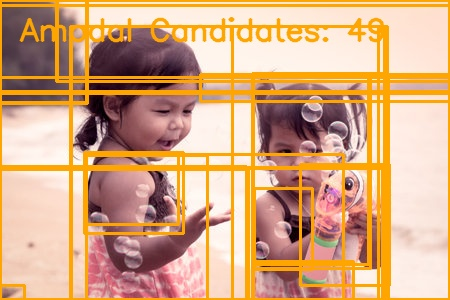
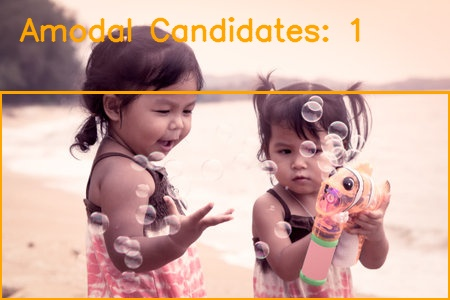
Updated stage 4

Changed region(s): [[0.0, 0.0, 1.0, 1.0], [0.0, 0.93, 0.0622, 1.0]]

diff --git a/test_pipeline.py b/test_pipeline.py
@@ -29,7 +29,8 @@ from transformers import (
     CLIPProcessor,
     CLIPModel,
     AutoModelForCausalLM,
-    AutoTokenizer
+    AutoTokenizer,
+    AutoConfig
 )
 from torchvision.ops import batched_nms
 
@@ -60,8 +61,10 @@ class VisionPipeline24GB:
         # --- Model 3: DINOv2 (Semantic Search) ---
         self.dino_id = "facebook/dinov2-base"
         self.dinov2_processor = AutoImageProcessor.from_pretrained(self.dino_id)
+        config = AutoConfig.from_pretrained(self.dino_id)
+        config.output_attentions = True
         self.dinov2_model = AutoModel.from_pretrained(
-            self.dino_id, torch_dtype=self.dtype
+            self.dino_id, torch_dtype=self.dtype, config=config,
         ).to(self.device)
 
         # --- Model 4: CLIP (Attribute Filtering) ---
@@ -196,60 +199,200 @@ class VisionPipeline24GB:
         
         return torch.stack([xmin, ymin, xmax, ymax], dim=-1).cpu().numpy().tolist()
 
+    # ============================================================
+    # Stage 3 v2: Multi-scale + SAM-refined seeds + CLIP gating
+    #             + edge gating + iterative seed expansion
+    # ============================================================
+
     @torch.no_grad()
+    def _refine_seeds_with_sam(self, image: Image.Image, seed_boxes: List[List]) -> List[np.ndarray]:
+        """Convert loose GroundingDINO boxes into tight foreground masks."""
+        if not seed_boxes:
+            return []
+        self.sam2_predictor.set_image(np.array(image))
+        masks = []
+        for b in seed_boxes:
+            try:
+                m, scores, _ = self.sam2_predictor.predict(
+                    box=np.array(b, dtype=np.float32),
+                    multimask_output=False,
+                )
+                masks.append(m[0].astype(bool))
+            except Exception:
+                continue
+        return masks
 
-    def stage_3_semantic_search(self, image: Image.Image, seed_boxes: List[List]) -> np.ndarray:
-        # 1. Prepare image for DINOv2
-        inputs = self.dinov2_processor(images=image, return_tensors="pt").to(self.device, dtype=self.dtype)
-        outputs = self.dinov2_model(**inputs)
-        
-        # Extract patch tokens (excluding the CLS token at index 0)
-        # Shape: [1, num_patches, embedding_dim]
-        patch_embeddings = outputs.last_hidden_state[:, 1:, :] 
-        
-        # Calculate grid dimensions (e.g., 16x16 for 224x224 input)
-        num_patches = patch_embeddings.shape[1]
-        grid_size = int(np.sqrt(num_patches))
-        
-        # 2. Extract Seed Embeddings
-        # We map the bounding boxes to the patch grid to find which tokens represent our seeds
-        seed_features = []
+
+    @torch.no_grad()
+    def _clip_relevancy_map(self, image: Image.Image, semantics: dict, out_size: Tuple[int, int]) -> np.ndarray:
+        """Coarse CLIP text-image relevancy via sliding-window crops. Cheap: ~16 crops."""
+        w, h = out_size
+        noun = semantics.get("target_noun", "object")
+        adj = " ".join(semantics.get("adjectives", []))
+        pos_prompt = f"a photo of a {adj} {noun}".strip()
+        neg_prompt = "a photo of background or empty space"
+
+        # 4x4 grid of overlapping crops
+        grid = 4
+        cw, ch = int(w / grid * 1.5), int(h / grid * 1.5)
+        sx, sy = (w - cw) // (grid - 1), (h - ch) // (grid - 1)
+
+        crops, centers = [], []
+        for i in range(grid):
+            for j in range(grid):
+                x0, y0 = j * sx, i * sy
+                x1, y1 = min(x0 + cw, w), min(y0 + ch, h)
+                crops.append(image.crop((x0, y0, x1, y1)))
+                centers.append(((x0 + x1) // 2, (y0 + y1) // 2))
+
+        inputs = self.clip_processor(
+            text=[pos_prompt, neg_prompt], images=crops,
+            return_tensors="pt", padding=True
+        ).to(self.device, dtype=self.dtype)
+        outputs = self.clip_model(**inputs)
+        probs = outputs.logits_per_image.softmax(dim=1).cpu().float().numpy()[:, 0]  # pos prob
+
+        # Scatter probs onto a coarse map, then smooth/upsample
+        coarse = np.zeros((grid, grid), dtype=np.float32)
+        for idx, (cx, cy) in enumerate(centers):
+            i, j = idx // grid, idx % grid
+            coarse[i, j] = probs[idx]
+        rel = cv2.resize(coarse, (w, h), interpolation=cv2.INTER_CUBIC)
+        rel = cv2.GaussianBlur(rel, (51, 51), 0)
+        if rel.max() > 0:
+            rel = (rel - rel.min()) / (rel.max() - rel.min() + 1e-8)
+        return rel
+
+
+    @torch.no_grad()
+    def _dino_sim_at_scale(
+        self,
+        image: Image.Image,
+        seed_masks: List[np.ndarray],
+        input_res: int,
+    ) -> np.ndarray:
+        """Single-scale contrastive DINOv2 similarity map using mask-interior patches."""
+        inputs = self.dinov2_processor(
+            images=image, size={"height": input_res, "width": input_res}, return_tensors="pt"
+        ).to(self.device, dtype=self.dtype)
+        outputs = self.dinov2_model(**inputs, output_attentions=True)
+
+        feats = outputs.last_hidden_state[:, 1:, :]  # [1, N, D]
+        N = feats.shape[1]
+        G = int(np.sqrt(N))
         w, h = image.size
-        for box in seed_boxes:
-            xmin, ymin, xmax, ymax = box
-            # Convert pixel coords to grid coords
-            col_start, col_end = int(xmin * grid_size / w), int(xmax * grid_size / w)
-            row_start, row_end = int(ymin * grid_size / h), int(ymax * grid_size / h)
-            
-            for r in range(row_start, min(row_end + 1, grid_size)):
-                for c in range(col_start, min(col_end + 1, grid_size)):
-                    idx = r * grid_size + c
-                    seed_features.append(patch_embeddings[0, idx])
 
-        if not seed_features:
-            return np.zeros((h, w))
+        # Build seed_mask from SAM masks (mask-interior only → pure foreground prototype)
+        seed_mask = torch.zeros(N, dtype=torch.bool, device=self.device)
+        for sam_mask in seed_masks:
+            small = cv2.resize(sam_mask.astype(np.uint8), (G, G), interpolation=cv2.INTER_AREA)
+            seed_mask |= torch.from_numpy(small > 0).flatten().to(self.device)
 
-        # Average the seed features to create a 'target' descriptor
-        target_embedding = torch.stack(seed_features).mean(dim=0, keepdim=True) # [1, dim]
-        
-        # 3. Compute Cosine Similarity
-        # Normalize for cosine similarity
-        patch_embeddings_norm = torch.nn.functional.normalize(patch_embeddings, dim=-1)
-        target_embedding_norm = torch.nn.functional.normalize(target_embedding, dim=-1)
-        
-        # Similarity map: [1, num_patches]
-        similarity = torch.matmul(patch_embeddings_norm, target_embedding_norm.T).squeeze()
-        
-        # Reshape and upscale to original image size
-        heatmap = similarity.reshape(grid_size, grid_size).cpu().float().numpy()
-        heatmap = cv2.resize(heatmap, image.size, interpolation=cv2.INTER_CUBIC)
-        
-        # Optional: ReLU to remove negative correlations and normalize to [0, 1]
-        heatmap = np.maximum(heatmap, 0)
-        if heatmap.max() > 0:
-            heatmap /= heatmap.max()
-            
+        if seed_mask.sum() == 0:
+            return np.zeros((h, w), dtype=np.float32)
+
+        p = torch.nn.functional.normalize(feats[0], dim=-1)
+        pos = torch.nn.functional.normalize(feats[0, seed_mask], dim=-1)
+
+        # Max-sim over all seed patches (preserves appearance diversity)
+        sim_pos = (p @ pos.T).max(dim=-1).values  # [N]
+
+        # Data-driven negative prototype from bottom-20% positively-similar patches
+        k_neg = max(10, int(0.2 * N))
+        neg_idx = torch.topk(sim_pos, k=k_neg, largest=False).indices
+        neg = torch.nn.functional.normalize(p[neg_idx].mean(0, keepdim=True), dim=-1)
+        sim_neg = (p @ neg.T).squeeze(-1)
+
+        contrast = sim_pos - sim_neg
+        contrast = (contrast - contrast.min()) / (contrast.max() - contrast.min() + 1e-8)
+        sharp = torch.pow(contrast, 1.8)
+
+        hm = sharp.reshape(G, G).cpu().float().numpy()
+        hm = cv2.resize(hm, (w, h), interpolation=cv2.INTER_LANCZOS4)
+        return hm
+
+
+    @torch.no_grad()
+    def stage_3_semantic_search(
+        self,
+        image: Image.Image,
+        seed_boxes: List[List],
+        semantics: dict = None,
+        iterations: int = 2,
+    ) -> np.ndarray:
+        """
+        Multi-scale DINOv2 similarity with:
+        - SAM-refined foreground-only seeds
+        - CLIP text-image relevancy gating
+        - Edge/texture gating
+        - Iterative seed expansion (peaks from pass 1 become seeds for pass 2)
+        """
+        w, h = image.size
+        if not seed_boxes:
+            return np.zeros((h, w), dtype=np.float32)
+
+        # ---- 1. Tight foreground masks from GroundingDINO boxes ----
+        seed_masks = self._refine_seeds_with_sam(image, seed_boxes)
+        if not seed_masks:
+            # Fallback: treat each box as a coarse rectangular mask
+            seed_masks = []
+            for b in seed_boxes:
+                m = np.zeros((h, w), dtype=bool)
+                x0, y0, x1, y1 = map(int, b)
+                m[max(0, y0):min(h, y1), max(0, x0):min(w, x1)] = True
+                seed_masks.append(m)
+
+        # ---- 2. Edge-density gate (suppresses flat regions like sky/paper) ----
+        gray = cv2.cvtColor(np.array(image), cv2.COLOR_RGB2GRAY)
+        edges = np.abs(cv2.Laplacian(gray, cv2.CV_32F))
+        edge_density = cv2.GaussianBlur(edges, (31, 31), 0)
+        if edge_density.max() > 0:
+            edge_density = (edge_density - edge_density.min()) / (edge_density.max() - edge_density.min() + 1e-8)
+        edge_gate = 0.3 + 0.7 * edge_density  # never fully zero out
+
+        # ---- 3. Optional CLIP relevancy gate ----
+        if semantics is not None:
+            clip_rel = self._clip_relevancy_map(image, semantics, (w, h))
+            clip_gate = 0.4 + 0.6 * clip_rel
+        else:
+            clip_gate = np.ones((h, w), dtype=np.float32)
+
+        def _compute(masks):
+            maps = []
+            for res in (392, 518, 714):       # 28x28, 37x37, 51x51 grids
+                maps.append(self._dino_sim_at_scale(image, masks, res))
+            hm = np.mean(maps, axis=0)
+            hm = hm * edge_gate * clip_gate
+            hm = cv2.GaussianBlur(hm, (11, 11), 0)
+            if hm.max() > 0:
+                hm = (hm - hm.min()) / (hm.max() - hm.min() + 1e-8)
+            return hm
+
+        # ---- 4. Iterative refinement: use pass-1 peaks as extra seeds ----
+        heatmap = _compute(seed_masks)
+
+        for _ in range(max(0, iterations - 1)):
+            peaks = self.get_persistent_peaks(heatmap, threshold=0.45)[:8]
+            if not peaks:
+                break
+            extra_boxes = []
+            # Size heuristic: use the median seed-mask size to build pseudo-boxes
+            med_area = np.median([m.sum() for m in seed_masks]) if seed_masks else (w * h * 0.01)
+            r = max(15, int(np.sqrt(med_area) * 0.6))
+            for (x, y) in peaks:
+                extra_boxes.append([max(0, x - r), max(0, y - r),
+                                    min(w, x + r), min(h, y + r)])
+            extra_masks = self._refine_seeds_with_sam(image, extra_boxes)
+            if not extra_masks:
+                break
+            combined_masks = seed_masks + extra_masks
+            new_hm = _compute(combined_masks)
+            # Blend: trust old 40%, new 60% (new has more evidence)
+            heatmap = 0.4 * heatmap + 0.6 * new_hm
+            seed_masks = combined_masks
+
         return heatmap
+
     
     def get_persistent_peaks(self, heatmap: np.ndarray, threshold: float = 0.15) -> List[Tuple[int, int]]:
         """Identifies stable local maxima using topological prominence."""
@@ -368,7 +511,7 @@ class VisionPipeline24GB:
         self.draw_boxes_and_save(image, seeds, img_out_dir / "stage_2_seeds.jpg", (255, 0, 0), "Seeds")
 
         # --- Stage 3: Semantic Search (Heatmap) ---
-        heatmap = self.stage_3_semantic_search(image, seeds)
+        heatmap = self.stage_3_semantic_search(image, seeds, semantics=semantics, iterations=2)
         # CALL SAVING FUNCTION FOR HEATMAP
         self.draw_heatmap_and_save(image, heatmap, img_out_dir / "stage_3_heatmap.jpg")
 
